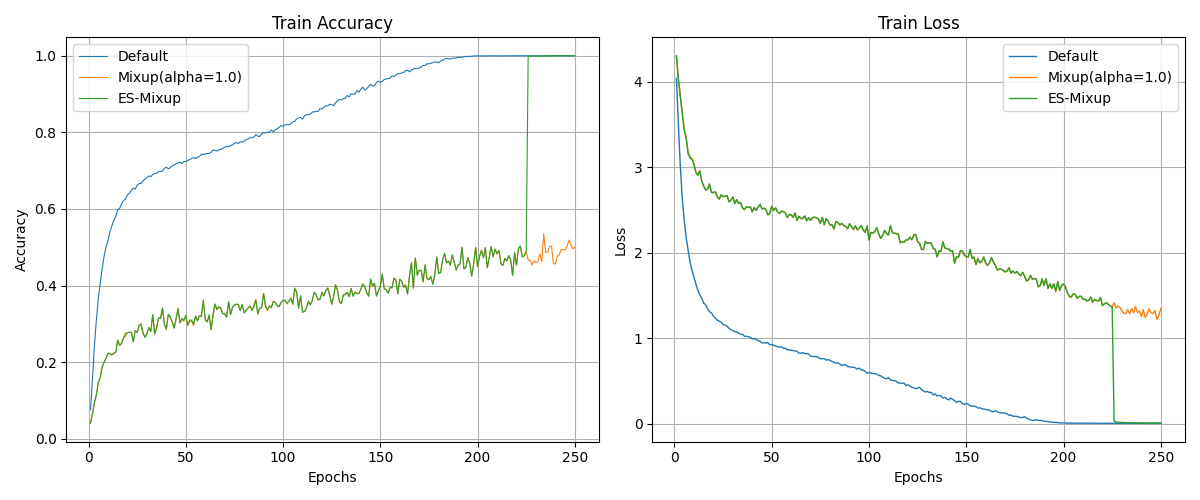
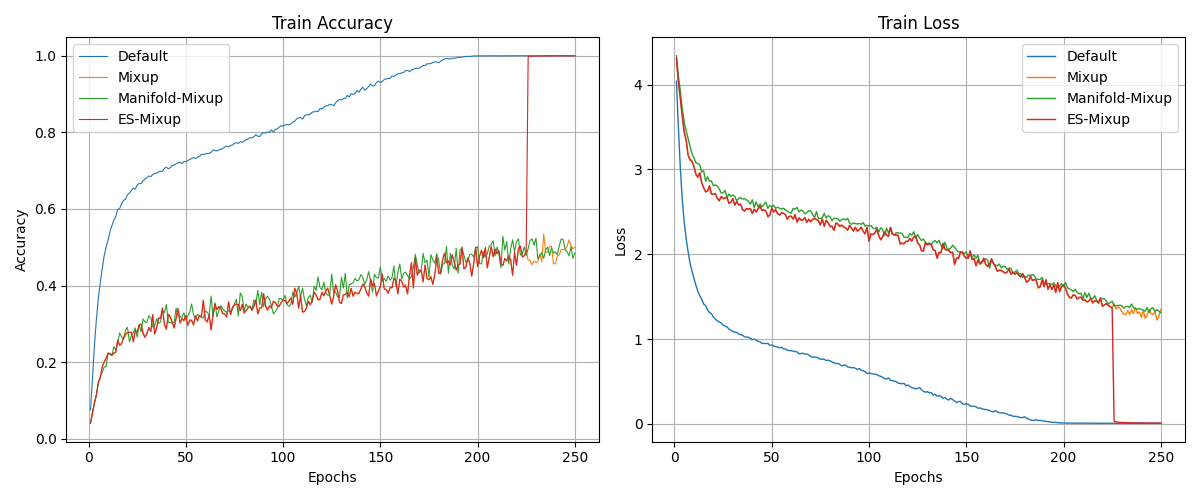
add ES-Mixup in result.py

diff --git a/result.py b/result.py
@@ -20,7 +20,7 @@ def main():
     augmentations = [
         "Default",
         "Mixup",
-        # "Manifold-Mixup",
+        "Manifold-Mixup",
         # "CutMix",
         # "RegMixup",
         # "Local-FOMA",
@@ -119,13 +119,6 @@ def plot_comparison_graph_train(model_type, augmentations, data_type, epoch, ite
         train_acc = train_acc / iteration
                 
         epochs = range(1, len(train_acc) + 1)
-
-        if augment == "Mixup":
-            augment = "Mixup(alpha=1.0)"
-        elif augment == "Manifold-Mixup":
-            augment = "Manifold-Mixup(alpha=2.0)"
-        elif augment == "SVD":
-            augment = "PCA"
         plt.plot(epochs, train_acc, linestyle='solid', linewidth=0.8, label=f'{augment}')
         
     plt.title('Train Accuracy')
@@ -150,13 +143,6 @@ def plot_comparison_graph_train(model_type, augmentations, data_type, epoch, ite
         train_loss = train_loss / iteration
         
         epochs = range(1, len(train_loss) + 1)
-
-        if augment == "Mixup":
-            augment = "Mixup(alpha=1.0)"
-        elif augment == "Manifold-Mixup":
-            augment = "Manifold-Mixup(alpha=2.0)"
-        elif augment == "SVD":
-            augment = "PCA"
         plt.plot(epochs, train_loss, linestyle='solid', linewidth=1, label=f'{augment}')
         
     plt.title('Train Loss')
@@ -188,15 +174,6 @@ def plot_comparison_graph(model_type, augmentations, data_type, epoch, iteration
         val_acc = val_acc / iteration
                 
         epochs = range(1, len(val_acc) + 1)
-
-        if augment == "Mixup":
-            augment = "Mixup(alpha=1.0)"
-        elif augment == "Manifold-Mixup":
-            augment = "Manifold-Mixup(alpha=2.0)"
-        elif augment == "SVD":
-            augment = "PCA"
-        elif augment == "FOMA-Mixup2":
-            augment = "FOMA-Mixup"
         plt.plot(epochs, val_acc, linestyle='solid', linewidth=0.8, label=f'{augment}')
         
     plt.title('Validation Accuracy')
@@ -221,15 +198,6 @@ def plot_comparison_graph(model_type, augmentations, data_type, epoch, iteration
         val_loss = val_loss / iteration
         
         epochs = range(1, len(val_loss) + 1)
-
-        if augment == "Mixup":
-            augment = "Mixup(alpha=1.0)"
-        elif augment == "Manifold-Mixup":
-            augment = "Manifold-Mixup(alpha=2.0)"
-        elif augment == "SVD":
-            augment = "PCA"
-        elif augment == "FOMA-Mixup2":
-            augment = "FOMA-Mixup"
         plt.plot(epochs, val_loss, linestyle='solid', linewidth=1, label=f'{augment}')
         
     plt.title('Validation Loss')
